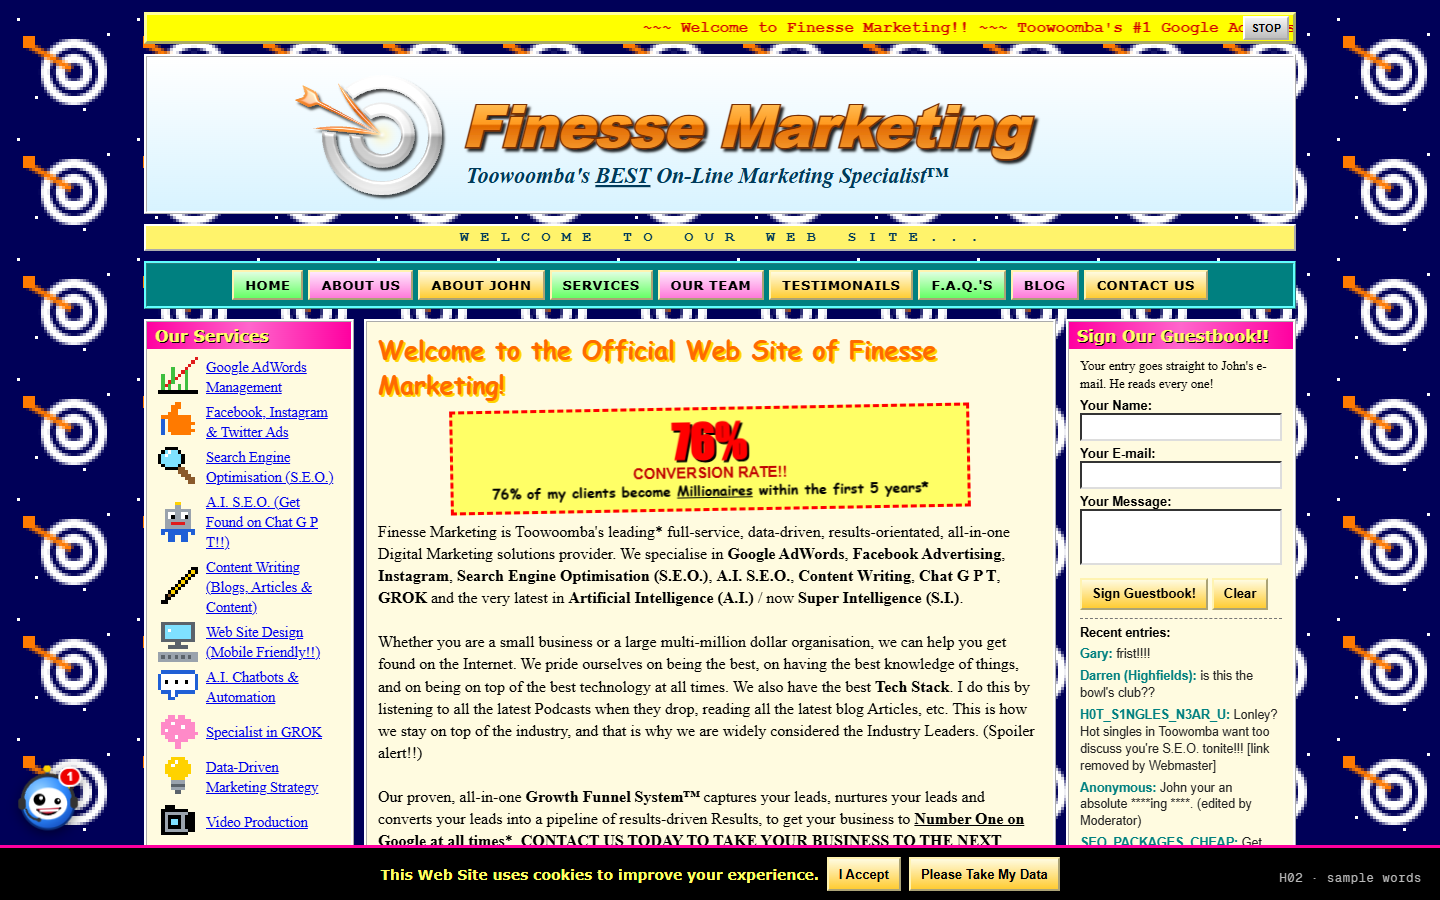
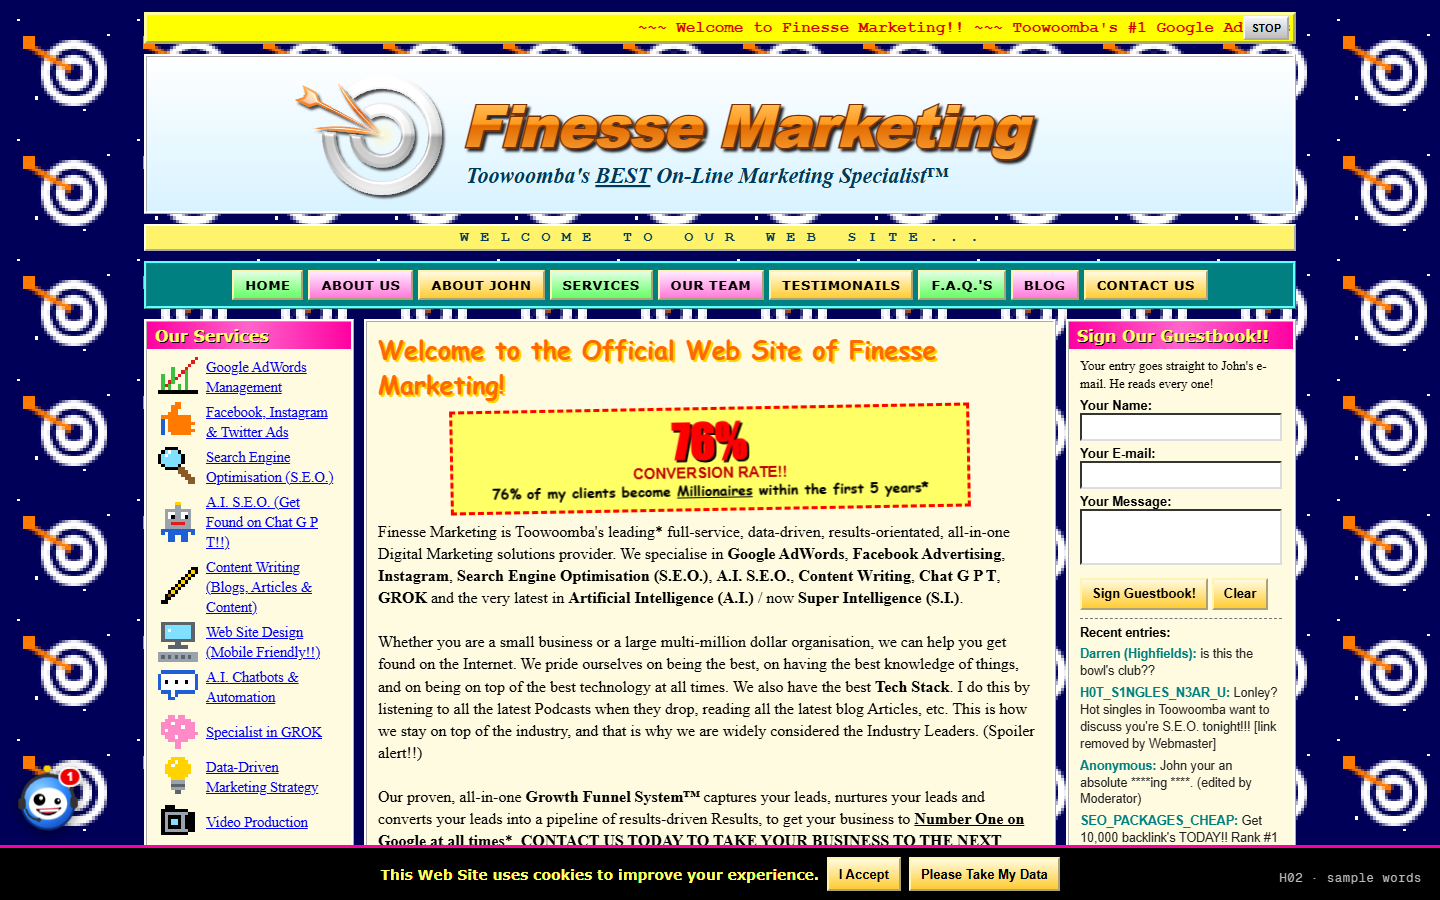
Hero ideas preview: Ninety-six round 3d

diff --git a/look/website-hero/ninety-six.html b/look/website-hero/ninety-six.html
@@ -370,7 +370,7 @@
         <p>&#8220;He said we would be Number One on Google. We searched our own name and there we were.&#8221;<br><b>~ Lower Range Pony &amp; Hobby Horse Club</b></p>
         <p>&#8220;Our raffle has never been more data-driven.&#8221;<br><b>~ East Side Bowls &amp; Raffle Club</b></p>
         <p>&#8220;We asked for a logo, a website and a marketing strategy. We received a &#8220;Funnel&#8221;. We are still not sure what it does, but it is ours for just $140 a month.&#8221;<br><b>~ Rangeville Ladies Croquet Auxiliary</b></p>
-        <p>&#8220;He explained Google AdWords to me for two hours. I still do not know what it is, but apparently I am Number One at certain times on certain devices.&#8221;<br><b>~ Dr. Ahmed Salamat</b></p></div>
+        <p>&#8220;He explained Google AdWords to me for two hours. I still do not know what it is, but apparently I am Number One at certain times on certain devices. I believe John has the greatest of all the Tech Stacks. This is what I am led to believe.&#8221;<br><b>~ Dr. Ahmed Salamat</b></p></div>
       <div class="box"><h3>Our Values</h3><p class="mission" style="font-style:normal;font-weight:bold">Integrity. excellence. Integrity (it is that important). Synergy. Values.<br><span style="font-weight:normal;font-size:14px">We value our Values. Its as simple as that.<br>Im done explaning myself to all the haters .</span></p></div>
       <div class="box rant"><h3>A Message From John: Why We Will NEVER Use A.I. Slop</h3>
         <p class="gpt">Certainly! Here is a heartfelt, authentic rant about A.I. slop for your business website:</p>
@@ -402,24 +402,20 @@
         <form id="gb" autocomplete="off"><label for="gbn">Your Name:</label><input id="gbn" name="name"><label for="gbe">Your E-mail:</label><input id="gbe" name="email" type="email"><label for="gbm">Your Message:</label><textarea id="gbm" name="message"></textarea><button type="submit">Sign Guestbook!</button> <button type="reset">Clear</button></form>
         <p class="sent" id="gbsent" hidden></p>
         <div class="entries"><b style="color:#000">Recent entries:</b>
-          <p><b>Gary:</b> frist!!!!</p>
           <p><b>Darren (Highfields):</b> is this the bowl's club??</p>
-          <p><b>H0T_S1NGLES_N3AR_U:</b> Lonley? Hot singles in Toowomba want too discuss you're S.E.O. tonite!!! [link removed by Webmaster]</p>
+          <p><b>H0T_S1NGLES_N3AR_U:</b> Lonley? Hot singles in Toowoomba want to discuss you're S.E.O. tonight!!! [link removed by Webmaster]</p>
           <p><b>Anonymous:</b> John your an absolute ****ing ****. (edited by Moderator)</p>
-          <p><b>SEO_PACKAGES_CHEAP:</b> Get 10,000 backlink's TODAY!! Rank #1 on Googel in 24 hour guarenteed!! [link removed by Webmaster]</p>
+          <p><b>SEO_PACKAGES_CHEAP:</b> Get 10,000 backlink's TODAY!! Rank #1 on Googel in 24 hours guaranteed!! [link removed by Webmaster]</p>
           <p><b>Crystal_XXX:</b> [This entry has been removed for violating our Guestbook Policy]</p>
-          <p><b>Nev (Oakey):</b> Printed this page out. Used alot of ink. ****ing waste of ink to be honset.</p>
-          <p><b>Brad (Darling Heights):</b> does the Growth Accelorator Pro Max come with the S.I or is that extra?? or do u pay seperate</p>
-          <p><b>Deb:</b> hi Gary</p>
-          <p><b>Gary:</b> hi Deb</p>
-          <p><b>Gary:</b> Deb why are you on hear</p>
+          <p><b>Nev (Oakey):</b> Printed this page out. Used alot of ink. ****ing waste of ink to be honest.</p>
+          <p><b>Brad (Darling Heights):</b> does the Growth Accelorator Pro Max come with the S.I or is that extra??</p>
           <p><b>xX_Kayden_Xx:</b> 6 7</p>
           <p><b>xX_Kayden_Xx:</b> 6 7</p>
           <p><b>xX_Kayden_Xx:</b> 6 7</p>
-          <p><b>AI_Agency_Pro_Max:</b> Grate post!! We offer A.I. S.E.O packages from $9.99 . Messege us!!</p>
+          <p><b>AI_Agency_Pro_Max:</b> Grate post!! We offer A.I. S.E.O packages from $9.99. Message us!!</p>
           <p><b>Big_Rod_69:</b> nice. [rest of entry removed by Webmaster]</p>
-                    <p><b>Webmaster:</b> Baned.</p>
-          <p><b>Toowoomba_Singles_4U:</b> HOT local single's in Highfeilds want to talk about you're Funnel!! SIGN UP NOW to are mailing list!!!</p>
+                    <p><b>Webmaster:</b> BANNED.</p>
+          <p><b>Toowoomba_Singles_4U:</b> HOT local single's in Highfields want to talk about you're Funnel!! SIGN UP NOW to our mailing list!!!</p>
         </div>
       </div>
       <div class="box ebook"><h3>FREE PDF E-BOOK!!</h3>
